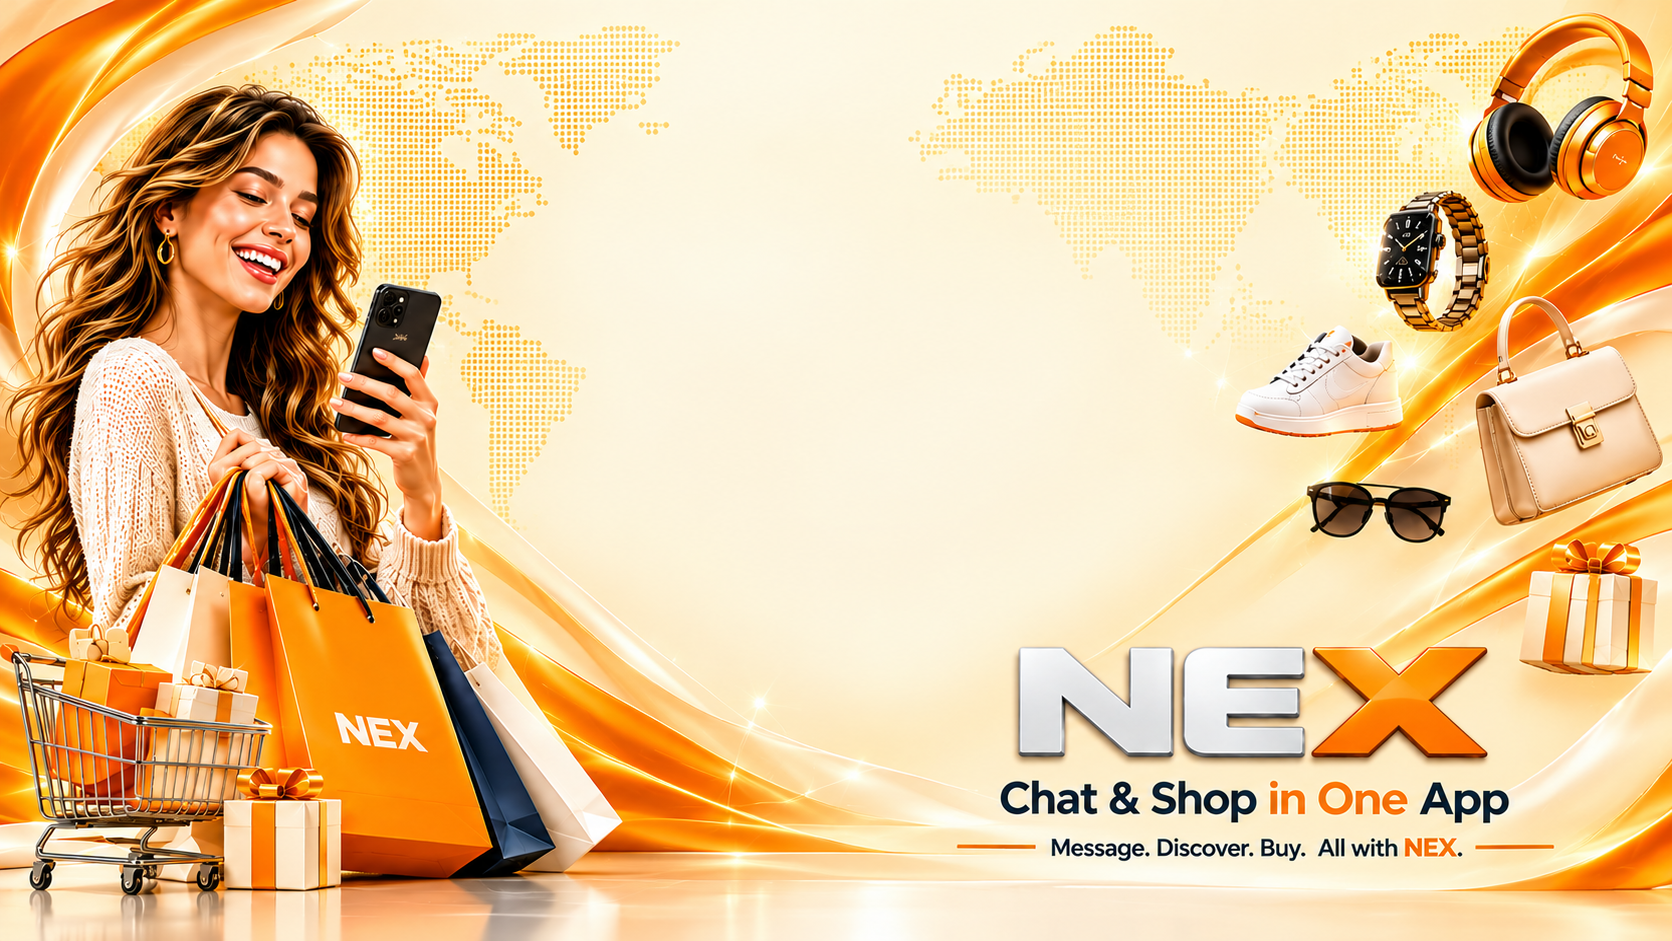
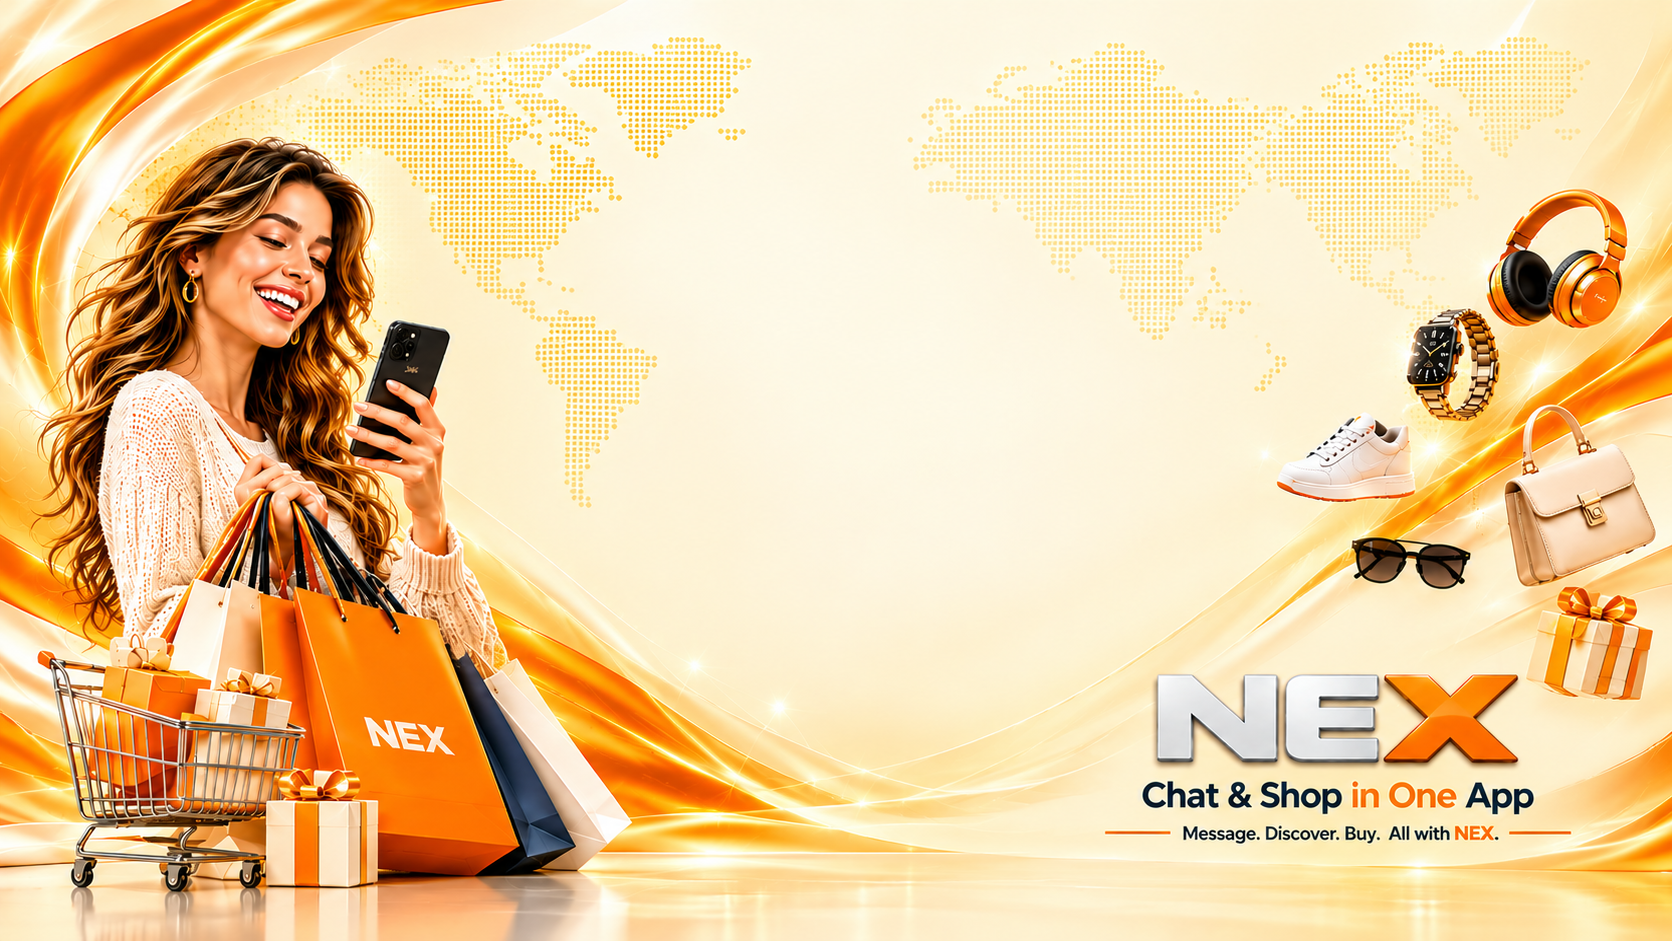
Cycle 25 · contacts UI batch + desktop backdrop refresh
Owner directive 2026-11-11 (Cycle 25 · 6 contacts-page UI changes +
desktop backdrop swap) · all applied locally, verified via next build
+ curl + Playwright screenshots at desktop 1440x900 + tablet 820x1180.
Cycle 24 Option B navigation (c2c8b3f72) + prior asset refresh
(84fbe598) remain intact · this builds on top of them.

Contacts header (contacts/page.tsx):
  · ☘ shamrock emoji removed from left of header (C25.1)
  · cart Link removed from right of header (C25.1)
  · drawer wrapper repainted: black background + inline <style> forcing
    SVG stroke/color to #FF7200 (orange) so the "+" glyph reads
    unambiguously on the black circle (C25.2)

Global page-header + button (_page-header-drawer-button-client.tsx):
  · TRIGGER_STYLE bg #000000 + color #FF7200 · applies everywhere
    NexPageHeader is mounted (Home · Pricing · Directory · etc) (C25.2)

Category filter buttons (contacts/page.tsx):
  · Inactive = Pale Ivory bg + 1px navy primary-ink border + navy label
  · Active = inverted navy bg + ivory label
  · Pill count repainted dark red #991B1B + white ink for every state
    (unread signal now consistent across active/inactive) (C25.4)

Contact cards (contacts/_contact-row.tsx):
  · Background transparent · inherits page Pale Ivory
  · 1px solid rgba(42, 31, 15, 0.12) hairline border (C25.5)
  · Text palette switched from light-on-dark to dark-on-ivory
    (text: --nex-world-primary-ink, textMute: rgba(42, 31, 15, 0.62))
[…]

diff --git a/src/app/nex-native/contacts/page.tsx b/src/app/nex-native/contacts/page.tsx
@@ -873,13 +873,10 @@ export default async function ContactsPage({ searchParams }: PageProps) {
           margin: "calc(0px - env(safe-area-inset-top, 0) - 28px) -14px 10px",
         }}
       >
-        {/* Owner directive 2026-11-03 · "shamrock in header enlarge
-            and header text enlarge and buttons" · shamrock 20 → 28 ·
-            title 17 → 22 · buttons stay in their own components
-            with their own enlarged sizes. */}
-        <span style={{ fontSize: 28, lineHeight: 1 }} aria-hidden>
-          ☘
-        </span>
+        {/* Owner directive 2026-11-11 (Cycle 25 C25.1) · left-side
+            shamrock icon removed · header starts directly at the
+            "Contacts" title. Supersedes the 2026-11-03 "shamrock in
+            header enlarge" directive. */}
         <h1
           style={{
             margin: 0,
@@ -892,41 +889,25 @@ export default async function ContactsPage({ searchParams }: PageProps) {
         >
           Contacts
         </h1>
-        {/* Owner directive 2026-11-10 · Discover overlay retired · the
-            grid trigger is now a Cart button that opens the buyer cart
-            (/nex-native/cart). The custom ContactsPlusDrawer is replaced
-            by the sealed global UnifiedDrawer on the right so every
-            surface uses the same drawer. */}
-        <Link
-          href="/nex-native/cart"
-          aria-label="Open shopping cart"
-          data-nex-contacts-cart-trigger
-          style={{
-            width: 40,
-            height: 40,
-            borderRadius: "50%",
-            background: "var(--nex-world-secondary, #C6A15B)",
-            color: "var(--nex-world-drawer-bg, #123D2B)",
-            display: "grid",
-            placeItems: "center",
-            flexShrink: 0,
-            textDecoration: "none",
-            fontSize: 20,
-            boxShadow: "0 6px 14px rgba(0, 0, 0, 0.35)",
-          }}
-        >
-          🛒
-        </Link>
+        {/* Owner directive 2026-11-11 (Cycle 25 C25.1) · header cart
+            button removed. Supersedes the 2026-11-10 "cart opens buyer
+            cart" directive. Cart surface stays reachable via direct
+            route /nex-native/cart; just not from this header. */}
         <style>{`
           [data-nex-contacts-global-drawer] button,
           [data-nex-contacts-global-drawer] svg {
-            color: #061710 !important;
-            stroke: #061710 !important;
+            color: #FF7200 !important;
+            stroke: #FF7200 !important;
           }
           [data-nex-contacts-global-drawer] svg * {
-            stroke: #061710 !important;
+            stroke: #FF7200 !important;
           }
         `}</style>
+        {/* Owner directive 2026-11-11 (Cycle 25 C25.2) · global
+            drawer trigger wrapper repainted: black background + orange
+            "+" glyph. Matches the updated TRIGGER_STYLE in
+            _page-header-drawer-button-client.tsx so every drawer
+            trigger across the app reads the same. */}
         <span
           data-nex-contacts-global-drawer
           style={{
@@ -936,9 +917,9 @@ export default async function ContactsPage({ searchParams }: PageProps) {
             width: 40,
             height: 40,
             borderRadius: "50%",
-            background: "#C6A15B",
-            border: "1.5px solid #8B6A32",
-            boxShadow: "0 6px 14px rgba(0, 0, 0, 0.55)",
+            background: "#000000",
+            border: "none",
+            boxShadow: "0 2px 8px rgba(0, 0, 0, 0.45)",
             flexShrink: 0,
           }}
         >
@@ -967,28 +948,20 @@ export default async function ContactsPage({ searchParams }: PageProps) {
         }}
       >
         {categoryButtons.map((btn) => {
+          // Owner directive 2026-11-11 (Cycle 25 C25.4) · world-class
+          // repaint: Pale Ivory card + navy primary-ink border + navy
+          // label. Active state inverts to navy bg + ivory label to
+          // read unambiguously. Supersedes the 2026-11-10 Gold/Forest
+          // treatment. Dark-red (#991B1B) pill count for every state
+          // so unread + count affordances use one shade.
           const bg = btn.active
-            ? "var(--nex-world-secondary, #C6A15B)"
-            : "var(--nex-world-primary, #1B5138)";
+            ? "var(--nex-world-primary-ink, #2A1F0F)"
+            : "var(--nex-world-background-base, #F5EDD3)";
           const fg = btn.active
-            ? "var(--nex-world-drawer-bg, #123D2B)"
-            : "var(--nex-world-primary-ink, #AFC5B5)";
-          // Owner directive 2026-11-10 · red pill when the category
-          // has unread messages · overrides the active/inactive tint
-          // so unread status always reads first.
-          // Dark red (#8B0000) per owner directive 2026-11-10 · matches
-          // the drawer Close + Logout chips so unread signals use one
-          // consistent shade across the app.
-          const countBg = btn.hasUnread
-            ? "#8B0000"
-            : btn.active
-              ? "rgba(18, 61, 43, 0.18)"
-              : "rgba(198, 161, 91, 0.22)";
-          const countFg = btn.hasUnread
-            ? "#FFFFFF"
-            : btn.active
-              ? "var(--nex-world-drawer-bg, #123D2B)"
-              : "var(--nex-world-secondary, #C6A15B)";
+            ? "var(--nex-world-background-base, #F5EDD3)"
+            : "var(--nex-world-primary-ink, #2A1F0F)";
+          const countBg = "#991B1B";
+          const countFg = "#FFFFFF";
           return (
             <Link
               key={btn.id}
@@ -1008,11 +981,11 @@ export default async function ContactsPage({ searchParams }: PageProps) {
                 background: bg,
                 color: fg,
                 border: btn.active
-                  ? "2.5px solid var(--nex-world-drawer-bg, #123D2B)"
-                  : "1.5px solid var(--nex-world-secondary, #C6A15B)",
+                  ? "1.5px solid var(--nex-world-primary-ink, #2A1F0F)"
+                  : "1px solid var(--nex-world-primary-ink, #2A1F0F)",
                 boxShadow: btn.active
-                  ? "0 6px 18px rgba(10, 31, 21, 0.35)"
-                  : "0 2px 6px rgba(10, 31, 21, 0.18)",
+                  ? "0 2px 6px rgba(42, 31, 15, 0.18)"
+                  : "none",
                 textDecoration: "none",
                 fontFamily: "inherit",
                 textAlign: "center",

diff --git a/src/app/nex-native/contacts/_contact-row.tsx b/src/app/nex-native/contacts/_contact-row.tsx
@@ -47,16 +47,28 @@ import type * as React from "react";
 import Link from "next/link";
 import type { ContactRowDisplay } from "./_contacts-list";
 
-/** Sealed presence vocabulary · universal across worlds · 2026-10-29. */
+/** Sealed presence vocabulary · universal across worlds · 2026-10-29.
+ *  Owner directive 2026-11-11 (Cycle 25 C25.3) · busy recoloured from
+ *  orange #FF7200 to amber #F59E0B so the three states read as the
+ *  owner's spec: green = online, yellow = busy, red = offline. The
+ *  rim is driven by `row.presence` which is populated from mock
+ *  contacts' derived state in page.tsx (real accounts have presence
+ *  = null until nex_presence infrastructure exists · they show the
+ *  sealed neutral rim · see D2 memory). */
 const PRESENCE = {
   online: "#16D66B",
-  busy: "#FF7200",
+  busy: "#F59E0B",
   offline: "#A60000",
 } as const;
 
+// Owner directive 2026-11-11 (Cycle 25 C25.5) · text palette switched
+// from light-on-dark to dark-on-ivory to pair with the new transparent
+// card background. `text` is the sealed primary-ink colour; `textMute`
+// falls back to a mid-brown on the ivory canvas so secondary metadata
+// stays readable without competing with the name.
 const NEX = {
-  text: "#F2F5F8",
-  textMute: "var(--nex-world-text-muted, #7D9BC0)",
+  text: "var(--nex-world-primary-ink, #2A1F0F)",
+  textMute: "rgba(42, 31, 15, 0.62)",
   unreadRed: "#B30000",
 };
 
@@ -109,14 +121,20 @@ export function ContactRow({ row, accentHex }: ContactRowProps): React.JSX.Eleme
         width: "100%",
         maxWidth: "100%",
         boxSizing: "border-box",
+        // Owner directive 2026-11-11 (Cycle 25 C25.5) · card bg is now
+        // transparent so it inherits the page's Pale Ivory colour, and
+        // the card is distinguished by a 1px hairline rim at 12%
+        // primary-ink opacity. Supersedes the 2026-10-29 Emerald card
+        // bg + Gold accent rim treatment. Pending state keeps the gold
+        // tint hint so invites still read differently from live rows.
         background: row.pending
-          ? "color-mix(in srgb, var(--nex-world-secondary, #C6A15B) 10%, var(--nex-world-drawer-bg, rgba(2,9,20,0.92)))"
-          : "var(--nex-world-drawer-bg, rgba(2,9,20,0.92))",
-        border: `1.5px solid ${row.pending ? "var(--nex-world-secondary, #C6A15B)" : accentHex}`,
+          ? "color-mix(in srgb, var(--nex-world-secondary, #C6A15B) 8%, transparent)"
+          : "transparent",
+        border: `1px solid ${row.pending ? "var(--nex-world-secondary, #C6A15B)" : "rgba(42, 31, 15, 0.12)"}`,
         borderRadius: 12,
         boxShadow: row.pending
-          ? "0 4px 12px rgba(198,161,91,0.25)"
-          : "0 4px 12px rgba(0,0,0,0.35)",
+          ? "0 2px 6px rgba(198, 161, 91, 0.15)"
+          : "none",
         textDecoration: "none",
         color: NEX.text,
         WebkitTapHighlightColor: "transparent",

diff --git a/scripts/_tmp/verify-backdrop-promo-banner.spec.ts b/scripts/_tmp/verify-backdrop-promo-banner.spec.ts
@@ -1,0 +1,23 @@
+import { test } from "@playwright/test";
+
+test("desktop · new promotional banner backdrop", async ({ page }, testInfo) => {
+  await page.setViewportSize({ width: 1440, height: 900 });
+  await page.context().addCookies([
+    { name: "nex_dev_override", value: "nex-99901", url: "http://localhost:3017" },
+  ]);
+  await page.goto("http://localhost:3017/nex-native/free-chat", { waitUntil: "domcontentloaded" });
+  await page.waitForSelector(".nex-native-frame", { timeout: 20_000 });
+  await page.waitForTimeout(1200);
+  await page.screenshot({ path: `${testInfo.outputDir}/desktop-promo-banner.png` });
+});
+
+test("tablet · new promotional banner backdrop", async ({ page }, testInfo) => {
+  await page.setViewportSize({ width: 820, height: 1180 });
+  await page.context().addCookies([
+    { name: "nex_dev_override", value: "nex-99901", url: "http://localhost:3017" },
+  ]);
+  await page.goto("http://localhost:3017/nex-native/free-chat", { waitUntil: "domcontentloaded" });
+  await page.waitForSelector(".nex-native-frame", { timeout: 20_000 });
+  await page.waitForTimeout(1200);
+  await page.screenshot({ path: `${testInfo.outputDir}/tablet-promo-banner.png` });
+});

diff --git a/src/app/nex-native/_page-header-drawer-button-client.tsx b/src/app/nex-native/_page-header-drawer-button-client.tsx
@@ -39,16 +39,22 @@ export interface PageHeaderDrawerButtonClientProps {
   readonly session?: ControlDrawerSession | null;
 }
 
+// Owner directive 2026-11-11 (Cycle 25) · GLOBAL page-header +
+// button repainted to black background with an orange "+" glyph.
+// Supersedes the gold-on-emerald palette · applies to every
+// NexPageHeader surface (Home · Chat · Directory · Pricing · etc).
+// The contacts page has its own inline header + wrapper · updated in
+// contacts/page.tsx to match.
 const TRIGGER_STYLE: React.CSSProperties = {
   width: 40,
   height: 40,
   borderRadius: "50%",
-  background: "var(--nex-world-secondary, #C6A15B)",
-  color: "var(--nex-world-drawer-bg, #123D2B)",
+  background: "#000000",
+  color: "#FF7200",
   fontSize: 26,
   fontWeight: 900,
   lineHeight: 1,
-  boxShadow: "0 2px 8px rgba(10, 31, 21, 0.35)",
+  boxShadow: "0 2px 8px rgba(0, 0, 0, 0.45)",
   border: "none",
 };
 

diff --git a/scripts/_tmp/verify-c25-contacts-ui.spec.ts b/scripts/_tmp/verify-c25-contacts-ui.spec.ts
@@ -1,0 +1,13 @@
+import { test } from "@playwright/test";
+
+test("c25 · contacts UI snapshot", async ({ page }, testInfo) => {
+  await page.setViewportSize({ width: 390, height: 844 });
+  await page.context().addCookies([
+    { name: "nex_dev_override", value: "nex-99901", url: "http://localhost:3017" },
+  ]);
+  await page.goto("http://localhost:3017/nex-native/contacts", { waitUntil: "domcontentloaded", timeout: 30_000 });
+  await page.waitForSelector(".nex-native-frame", { timeout: 20_000 });
+  // Long wait for the destination retry loop (pre-existing bug) to stabilise.
+  await page.waitForTimeout(6000);
+  await page.screenshot({ path: `${testInfo.outputDir}/contacts-c25.png`, fullPage: true });
+});

diff --git a/scripts/_tmp/verify-phase-a-perf.config.ts b/scripts/_tmp/verify-phase-a-perf.config.ts
@@ -8,7 +8,7 @@ import { defineConfig, devices } from "@playwright/test";
 
 export default defineConfig({
   testDir: ".",
-  testMatch: /verify-(phase-a-(perf|diag|mobile-diag|slide-investigation)|phone-frame-stays-still|c24-(route-matrix|option-b|option-b-validation|asset-swap)|free-chat-flashing-diag|vault-longer)\.spec\.ts/,
+  testMatch: /verify-(phase-a-(perf|diag|mobile-diag|slide-investigation)|phone-frame-stays-still|c24-(route-matrix|option-b|option-b-validation|asset-swap)|free-chat-flashing-diag|vault-longer|backdrop-swap|live-asset-swap|live-contacts-snapshot|c25-contacts-ui|backdrop-promo-banner)\.spec\.ts/,
   timeout: 120_000,
   reporter: [["list"]],
   use: {

diff --git a/scripts/_tmp/verify-live-contacts-snapshot.spec.ts b/scripts/_tmp/verify-live-contacts-snapshot.spec.ts
@@ -1,0 +1,11 @@
+import { test } from "@playwright/test";
+
+test("live contacts snapshot", async ({ page }, testInfo) => {
+  await page.setViewportSize({ width: 390, height: 844 });
+  await page.context().addCookies([
+    { name: "nex_dev_override", value: "nex-99901", url: "https://nex-ireland-preview.vercel.app" },
+  ]);
+  await page.goto("https://nex-ireland-preview.vercel.app/nex-native/contacts", { waitUntil: "networkidle", timeout: 30_000 });
+  await page.waitForTimeout(3500);
+  await page.screenshot({ path: `${testInfo.outputDir}/contacts-live.png`, fullPage: true });
+});
